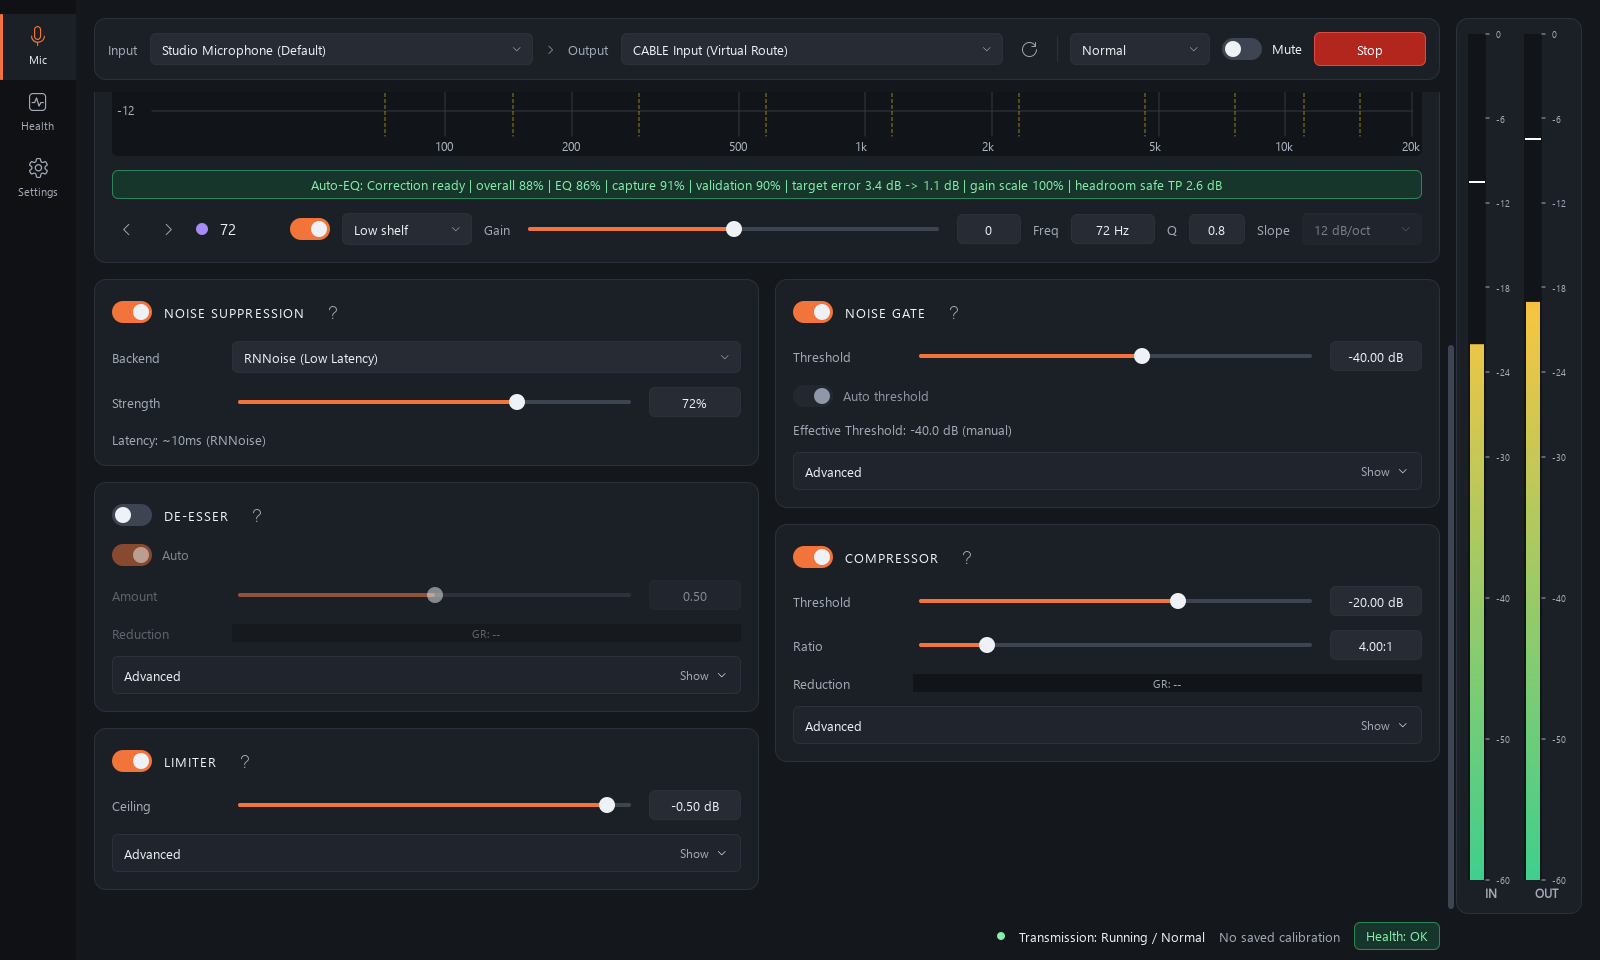
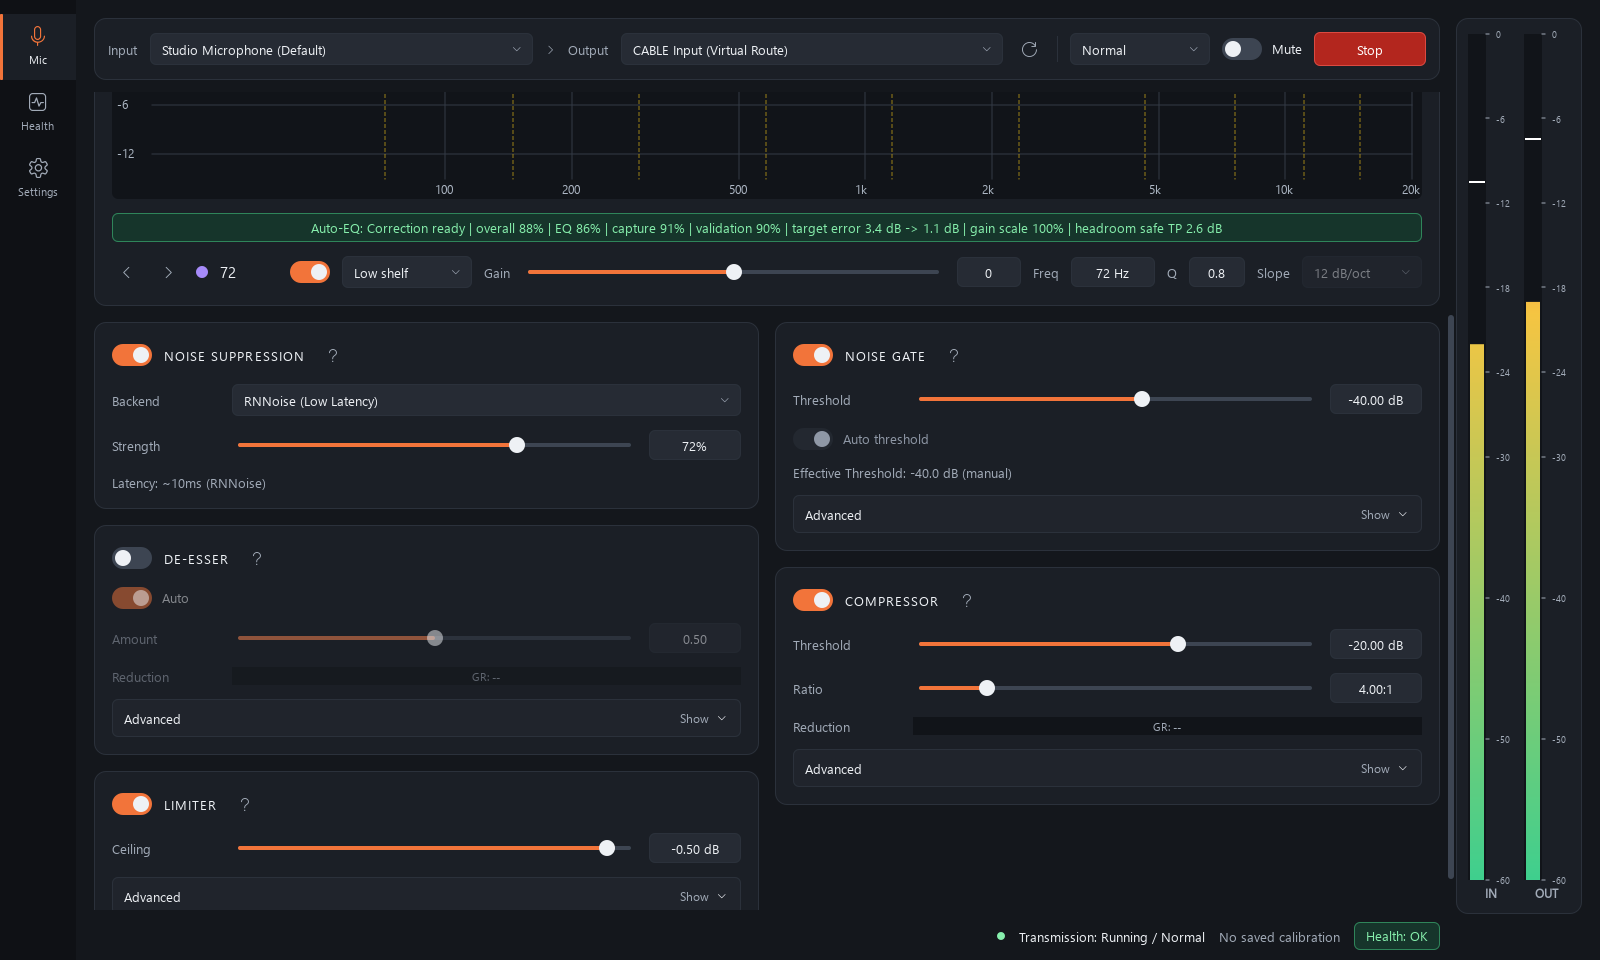
fix: keep the Qt Quick view in step with corrections made by the window
Review fixes for the card-based view:

- Settings switches mirror their action through changed(), which is not
  emitted while the window corrects an action with signals blocked (a
  refused global mute shortcut, tray unavailable, login shortcut
  refresh). Emit it after each such correction.
- Refresh the login shortcut row when the Settings page opens; its menu
  is no longer shown, so aboutToShow never fired.
- A picker or slider in the scene now reads its value back after every
  write, so it cannot keep showing a choice the widget refused, such as
  a noise backend that failed to load.
- Scroll the control that takes keyboard focus into view.
- Add Redo beside Undo; both are icon buttons in the scene so the action
  row still fits the minimum window width.
- Falling back to the widget view restores the size limits of the
  painted widgets, and the load-failure path removes the repaint hooks.

README screenshots regenerated for the new action row.

diff --git a/python/mic_eq/ui/qml/Main.qml b/python/mic_eq/ui/qml/Main.qml
@@ -381,6 +381,7 @@ Rectangle {
         property string hint: proxy ? proxy.toolTip : ""
         visible: root.t.iconFont !== ""
         enabled: proxy ? proxy.enabled : true
+        opacity: enabled ? 1 : 0.4
         implicitWidth: 30
         implicitHeight: 30
         onClicked: if (proxy) root.press(this, proxy)
@@ -707,6 +708,19 @@ Rectangle {
         contentHeight: column.implicitHeight + 24
         boundsBehavior: Flickable.StopAtBounds
         clip: true
+        // Keep the control that has keyboard focus on screen.
+        readonly property Item focusItem: Window.activeFocusItem
+        onFocusItemChanged: {
+            var item = focusItem
+            for (var p = item; p && p !== column; p = p.parent) {}
+            if (!visible || !p)
+                return
+            var top = item.mapToItem(contentItem, 0, 0).y
+            if (top < contentY + 12)
+                contentY = Math.max(0, top - 12)
+            else if (top + item.height > contentY + height - 12)
+                contentY = Math.min(contentHeight - height, top + item.height - height + 12)
+        }
         ScrollBar.vertical: ScrollBar {
             id: bar
             policy: page.contentHeight > page.height ? ScrollBar.AlwaysOn : ScrollBar.AlwaysOff
@@ -949,7 +963,11 @@ Rectangle {
                         }
                     }
                     Btn { proxy: root.m.presets.menu }
-                    Btn { proxy: root.m.presets.undo }
+                    IconBtn { proxy: root.m.presets.undo; glyph: root.m.glyphs.undo }
+                    IconBtn { proxy: root.m.presets.redo; glyph: root.m.glyphs.redo }
+                    // Without a system icon font the two are spelled out.
+                    Btn { proxy: root.m.presets.undo; visible: root.t.iconFont === "" }
+                    Btn { proxy: root.m.presets.redo; visible: root.t.iconFont === "" }
                     Btn { proxy: root.m.presets.testSound }
                     Btn { proxy: root.m.presets.autoEq }
                     Btn { proxy: root.m.presets.voiceSetup; look: "primary" }

diff --git a/python/mic_eq/ui/main_window.py b/python/mic_eq/ui/main_window.py
@@ -503,6 +503,11 @@ class MainWindow(QMainWindow):
         self.nav_group.button(index).setChecked(True)
         with QSignalBlocker(self.health_details_button):
             self.health_details_button.setChecked(index == self.HEALTH_PAGE_INDEX)
+        # The shortcut can be removed or disabled outside the app.
+        if self.page_stack.widget(index) is self.settings_page and hasattr(
+            self, "_login_startup_action"
+        ):
+            self._refresh_login_startup_action()
 
     def _build_top_bar(self) -> QFrame:
         bar = QFrame()
@@ -612,6 +617,10 @@ class MainWindow(QMainWindow):
             "Undo the most recent processing-configuration edit (Ctrl+Z)"
         )
         self._undo_auto_eq_button.clicked.connect(self.undo_configuration)
+        self.redo_button = QPushButton("Redo")
+        self.redo_button.setEnabled(False)
+        self.redo_button.setToolTip("Redo the edit that was just undone (Ctrl+Shift+Z)")
+        self.redo_button.clicked.connect(self.redo_configuration)
 
         self.auto_eq_button = QPushButton("Auto-EQ")
         self.auto_eq_button.setToolTip(
@@ -644,6 +653,7 @@ class MainWindow(QMainWindow):
         actions.addWidget(self.preset_status_label, stretch=1)
         actions.addWidget(self.presets_button)
         actions.addWidget(self._undo_auto_eq_button)
+        actions.addWidget(self.redo_button)
         actions.addWidget(self.test_sound_button)
         actions.addWidget(self.auto_eq_button)
         actions.addWidget(self.auto_voice_setup_button)
@@ -1886,6 +1896,8 @@ class MainWindow(QMainWindow):
         self._login_startup_action.setChecked(state == "configured")
         self._login_startup_action.setEnabled(packaged and state in {"absent", "configured"})
         self._login_startup_action.blockSignals(False)
+        # The Settings row follows changed(), which the block suppressed.
+        self._login_startup_action.changed.emit()
         messages = {
             "absent": "No login shortcut configured",
             "configured": "Shortcut configured; Windows may disable it",
@@ -2009,6 +2021,8 @@ class MainWindow(QMainWindow):
                 self._close_to_tray_action.blockSignals(True)
                 self._close_to_tray_action.setChecked(False)
                 self._close_to_tray_action.blockSignals(False)
+                # The Settings row follows changed(), which the block suppressed.
+                self._close_to_tray_action.changed.emit()
             return
 
         if self._close_to_tray_action is not None:
@@ -2016,6 +2030,8 @@ class MainWindow(QMainWindow):
             self._close_to_tray_action.blockSignals(True)
             self._close_to_tray_action.setChecked(bool(self.config.close_to_tray))
             self._close_to_tray_action.blockSignals(False)
+            # The Settings row follows changed(), which the block suppressed.
+            self._close_to_tray_action.changed.emit()
 
         icon = self.windowIcon()
         if icon.isNull() and isinstance(app, QGuiApplication):
@@ -2101,6 +2117,8 @@ class MainWindow(QMainWindow):
                 self._mute_hotkey_action.blockSignals(True)
                 self._mute_hotkey_action.setChecked(False)
                 self._mute_hotkey_action.blockSignals(False)
+                # The Settings row follows changed(), which the block suppressed.
+                self._mute_hotkey_action.changed.emit()
             self.status_bar.showMessage(
                 f"Global mute shortcut unavailable: {error}",
                 8000,
@@ -3466,6 +3484,7 @@ class MainWindow(QMainWindow):
         if self._redo_action is not None:
             self._redo_action.setEnabled(history.can_redo)
             self._redo_action.setText(f"&Redo {redo_label}" if redo_label else "&Redo")
+        self.redo_button.setEnabled(history.can_redo)
         if self._undo_auto_eq_button is not None:
             self._undo_auto_eq_button.setEnabled(history.can_undo)
             self._undo_auto_eq_button.setToolTip(

diff --git a/python/tests/test_quick_shell.py b/python/tests/test_quick_shell.py
@@ -3,7 +3,7 @@
 from __future__ import annotations
 
 import pytest
-from PySide6.QtCore import QEvent, QPointF, Qt, qInstallMessageHandler
+from PySide6.QtCore import QEvent, QPointF, QSignalBlocker, Qt, qInstallMessageHandler
 from PySide6.QtGui import QImage, QMouseEvent, QPainter
 from PySide6.QtQuickWidgets import QQuickWidget
 from PySide6.QtWidgets import QLabel
@@ -277,3 +277,91 @@ def test_scene_gets_structured_values_instead_of_parsing_labels(quick_window) ->
         "Drops",
         "Recovery",
     ]
+
+
+def _settings_row(window, text: str):
+    cards = window.quick_bridge.model["settings"]["cards"]
+    return next(
+        row["proxy"] for card in cards for row in card["rows"] if row["proxy"].text.startswith(text)
+    )
+
+
+def test_settings_switch_follows_an_action_the_window_corrects_silently(
+    quick_window, monkeypatch
+) -> None:
+    """A refused global shortcut unchecks its action with signals blocked."""
+
+    monkeypatch.setattr(
+        "mic_eq.ui.main_window.GlobalMuteHotkey.register", lambda _self: (False, "in use")
+    )
+    action = quick_window._mute_hotkey_action
+    row = _settings_row(quick_window, "Enable global mute shortcut")
+    with QSignalBlocker(action):
+        action.setChecked(True)
+    action.changed.emit()
+    quick_window.quick_bridge.refresh()
+    assert row.checked
+
+    assert not quick_window._register_mute_hotkey("Ctrl+Alt+M")
+    quick_window.quick_bridge.refresh()
+    assert not action.isChecked()
+    assert not row.checked
+
+
+def test_scene_control_is_told_to_read_back_a_choice_the_widget_refused(quick_window) -> None:
+    mode = quick_window.quick_bridge.model["top"]["mode"]
+    combo = quick_window.processing_mode_combo
+    # The handler puts the old entry back, as a failed backend switch does.
+    combo.currentIndexChanged.connect(
+        lambda _index: (combo.blockSignals(True), combo.setCurrentIndex(0), combo.blockSignals(False))
+    )
+    notified: list[bool] = []
+    mode.changed.connect(lambda: notified.append(True))
+    mode.setIndex(1)
+    assert combo.currentIndex() == 0 and mode.index == 0
+    assert notified
+
+
+def test_redo_button_follows_the_history(quick_window) -> None:
+    redo = quick_window.quick_bridge.model["presets"]["redo"]
+    assert not quick_window.redo_button.isEnabled()
+    quick_window.gate_panel.enabled_checkbox.click()
+    quick_window.undo_configuration()
+    assert quick_window.redo_button.isEnabled() == quick_window._redo_action.isEnabled()
+    assert quick_window.redo_button.isEnabled()
+    quick_window.quick_bridge.refresh()
+    assert redo.enabled
+
+
+def test_keyboard_focus_scrolls_its_control_into_view(quick_window, qapp) -> None:
+    quick_window.resize(900, 600)
+    quick_window.activateWindow()
+    view = quick_window.centralWidget()
+    view.setFocus()
+    qapp.processEvents()
+    limiter = quick_window.quick_bridge.model["stages"][-1]
+    toggle = _find(view.rootObject(), "Toggle", limiter["toggle"])
+    assert toggle is not None
+    page = toggle
+    while page is not None and page.property("contentY") is None:
+        page = page.parentItem()
+    assert page is not None and page.property("contentY") == 0
+    toggle.forceActiveFocus()
+    qapp.processEvents()
+    assert page.property("contentY") > 0
+
+
+def test_fallback_gives_painted_widgets_their_size_limits_back(quick_window) -> None:
+    curve = quick_window.eq_panel.curve_widget
+    item = WidgetItem()
+    item.setWidth(640)
+    item.setHeight(200)
+    item.proxy = quick_window.quick_bridge.model["eq"]["curve"]
+    image = QImage(640, 200, QImage.Format.Format_ARGB32_Premultiplied)
+    painter = QPainter(image)
+    item.paint(painter)
+    painter.end()
+    assert curve.minimumWidth() == curve.maximumWidth() == 640
+    restore_widget_shell(quick_window, "no graphics adapter")
+    # Free to follow the window width again, as in the widget view.
+    assert curve.minimumWidth() < 640 < curve.maximumWidth()

diff --git a/python/mic_eq/ui/quick_shell.py b/python/mic_eq/ui/quick_shell.py
@@ -162,6 +162,8 @@ class WidgetProxy(QObject):
         target = self.target
         if isinstance(target, QWidget) and "update" not in target.__dict__:
             original = target.update
+            # WidgetItem pins the widget to the item's size; kept for unwatch.
+            self._size_limits = (target.minimumSize(), target.maximumSize())
 
             def update(*args) -> None:
                 original(*args)
@@ -170,7 +172,10 @@ class WidgetProxy(QObject):
             target.update = update  # type: ignore[method-assign]
 
     def unwatch_repaints(self) -> None:
-        self.target.__dict__.pop("update", None)
+        target = self.target
+        if target.__dict__.pop("update", None) is not None and isinstance(target, QWidget):
+            target.setMinimumSize(self._size_limits[0])
+            target.setMaximumSize(self._size_limits[1])
 
     def refresh(self) -> None:
         state = self._read()
@@ -204,6 +209,9 @@ class WidgetProxy(QObject):
         elif isinstance(target, (QSlider, QSpinBox)):
             target.setValue(round(value))
         self.refresh()
+        # The scene control already moved; make it read back even when the
+        # widget clamped or refused the value and nothing changed here.
+        self.changed.emit()
 
     @Slot(str)
     def setText(self, text: str) -> None:
@@ -235,6 +243,7 @@ class WidgetProxy(QObject):
         if isinstance(target, (QComboBox, QStackedWidget)):
             target.setCurrentIndex(index)
         self.refresh()
+        self.changed.emit()
 
     @Slot()
     def click(self) -> None:
@@ -398,6 +407,13 @@ class QuickBridge(QObject):
             self._trace_timer.start()
 
     model = Property(dict, lambda self: self._model, constant=True)
+
+    def release(self) -> None:
+        """Give the widgets back to the widget view and go away."""
+
+        for proxy in self._proxies:
+            proxy.unwatch_repaints()
+        self.deleteLater()
 
     def refresh(self) -> None:
         if self._window.isVisible() and not self._window.isMinimized():
@@ -620,6 +636,8 @@ class QuickBridge(QObject):
                 "next": Glyph.NEXT,
                 "expand": Glyph.EXPAND,
                 "refresh": Glyph.REFRESH,
+                "undo": Glyph.UNDO,
+                "redo": Glyph.REDO,
             },
             "page": self._proxy(w.page_stack),
             "healthPage": w.HEALTH_PAGE_INDEX,
@@ -646,6 +664,7 @@ class QuickBridge(QObject):
                 ),
                 "menu": self._proxy(w.presets_button),
                 "undo": self._proxy(w._undo_auto_eq_button),
+                "redo": self._proxy(w.redo_button),
                 "testSound": self._proxy(w.test_sound_button),
                 "autoEq": self._proxy(w.auto_eq_button),
                 "voiceSetup": self._proxy(w.auto_voice_setup_button),
@@ -727,7 +746,7 @@ def install_quick_shell(window) -> bool:
             "; ".join(error.toString() for error in view.errors()),
         )
         view.deleteLater()
-        bridge.deleteLater()
+        bridge.release()
         _announce_fallback(window)
         return False
 
@@ -767,8 +786,6 @@ def restore_widget_shell(window, reason: str) -> None:
     if bridge is None:
         return
     _LOG.error("Qt Quick view stopped rendering: %s", reason)
-    for proxy in bridge._proxies:
-        proxy.unwatch_repaints()
     shell = window.__dict__.pop("widget_shell")
     view = window.takeCentralWidget()
     shell.hide()
@@ -779,4 +796,4 @@ def restore_widget_shell(window, reason: str) -> None:
     window.statusBar().show()
     _announce_fallback(window)
     view.deleteLater()
-    bridge.deleteLater()
+    bridge.release()

diff --git a/python/mic_eq/ui/components.py b/python/mic_eq/ui/components.py
@@ -46,6 +46,8 @@ class Glyph:
     NEXT = ""
     EXPAND = ""
     REFRESH = ""
+    UNDO = ""
+    REDO = ""
 
 
 # Short stand-ins for machines without a system icon font.
